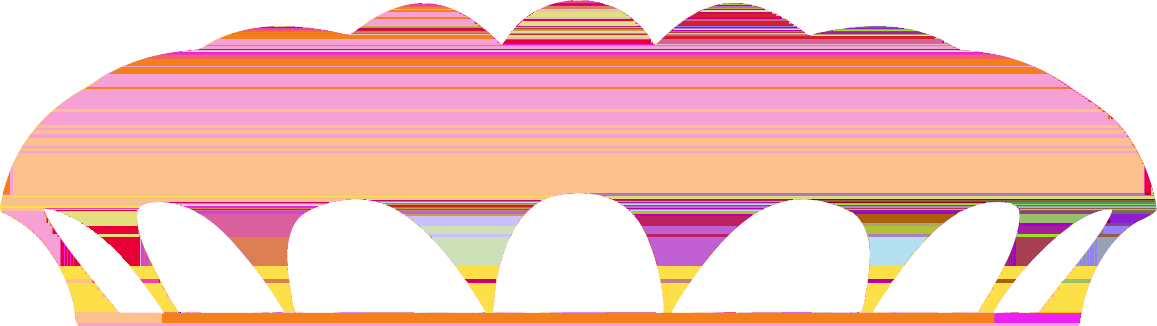
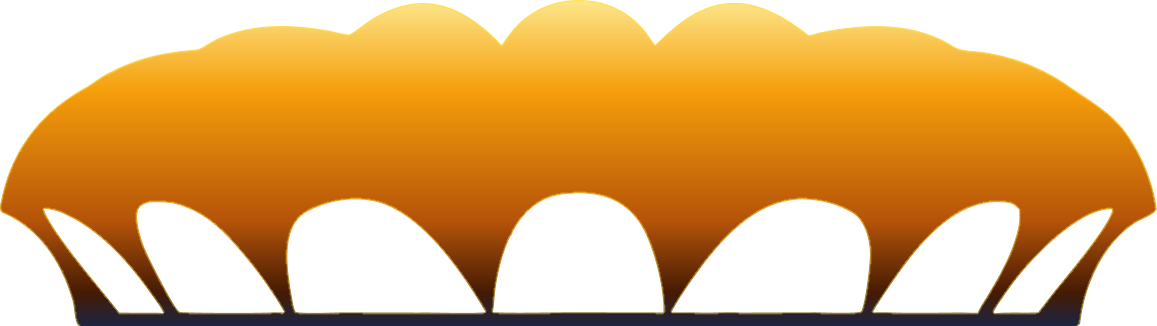
style: match pumpkin building colors with background templeGoldGrad palette

diff --git a/src/components/KrathongVisual.tsx b/src/components/KrathongVisual.tsx
@@ -582,21 +582,21 @@ export const KrathongVisual: React.FC<KrathongVisualProps> = ({
             <line x1="7" y1="58" x2="18" y2="39" stroke="#d97706" strokeWidth="2" strokeLinecap="round" />
             {/* ฐานแท่นรองรับอาคาร */}
             <rect x="3" y="34" width="30" height="4" rx="1.5" fill="#92400e" stroke="#fde047" strokeWidth="0.8" />
-            <rect x="6" y="31" width="24" height="3.5" rx="1" fill="#fef3c7" stroke="#d97706" strokeWidth="0.7" />
+            <rect x="6" y="31" width="24" height="3.5" rx="1" fill="#fde68a" stroke="#d97706" strokeWidth="0.7" />
             {/* หลังคาโดมกลีบฟักทองโค้งมน (ซ้าย-กลาง-ขวา) */}
             <path d="M 4 31 C 4 17 11 10 18 10 C 25 10 32 17 32 31 Z" fill="#f59e0b" stroke="#78350f" strokeWidth="1" />
             {/* กลีบฟักทองซ้อนมิติซ้าย-ขวา */}
             <path d="M 8.5 31 C 8.5 18 13 11 18 10 C 14.5 14 13 22 13 31 Z" fill="#fbbf24" opacity="0.85" />
             <path d="M 27.5 31 C 27.5 18 23 11 18 10 C 21.5 14 23 22 23 31 Z" fill="#d97706" opacity="0.75" />
             {/* กลีบกลางสว่าง + เส้นสันกลีบตึกฟักทอง */}
-            <path d="M 13.5 31 C 13.5 19 15.5 11.5 18 10 C 20.5 11.5 22.5 19 22.5 31 Z" fill="#fef3c7" stroke="#b45309" strokeWidth="0.7" />
+            <path d="M 13.5 31 C 13.5 19 15.5 11.5 18 10 C 20.5 11.5 22.5 19 22.5 31 Z" fill="#fde68a" stroke="#b45309" strokeWidth="0.7" />
             <line x1="18" y1="8" x2="18" y2="31" stroke="#b45309" strokeWidth="0.8" />
             {/* ยอดจั่วกลาง */}
             <path d="M 16.5 10 L 18 5.5 L 19.5 10 Z" fill="#fde047" stroke="#b45309" strokeWidth="0.6" />
-            {/* ช่องซุ้มโค้งสีขาวฐานตึก (ซุ้มโค้งเอกลักษณ์ ม.อ.) */}
-            <path d="M 8 31 L 8 27 Q 10 24.5 12 27 L 12 31 Z" fill="#ffffff" stroke="#b45309" strokeWidth="0.5" />
-            <path d="M 15.5 31 L 15.5 26.5 Q 18 23.5 20.5 26.5 L 20.5 31 Z" fill="#ffffff" stroke="#b45309" strokeWidth="0.5" />
-            <path d="M 24 31 L 24 27 Q 26 24.5 28 27 L 28 31 Z" fill="#ffffff" stroke="#b45309" strokeWidth="0.5" />
+            {/* ช่องซุ้มโค้งฐานตึกโทนเดียวกับสถาปัตยกรรมพื้นหลัง */}
+            <path d="M 8 31 L 8 27 Q 10 24.5 12 27 L 12 31 Z" fill="#0b132b" stroke="#fde047" strokeWidth="0.55" />
+            <path d="M 15.5 31 L 15.5 26.5 Q 18 23.5 20.5 26.5 L 20.5 31 Z" fill="#0b132b" stroke="#fde047" strokeWidth="0.55" />
+            <path d="M 24 31 L 24 27 Q 26 24.5 28 27 L 28 31 Z" fill="#0b132b" stroke="#fde047" strokeWidth="0.55" />
           </g>
         )}
 
@@ -741,7 +741,7 @@ export const KrathongVisual: React.FC<KrathongVisualProps> = ({
             <g>
               {/* ฐานแท่นรองรับโค้ง 2 ชั้น */}
               <rect x="52" y="108" width="96" height="8" rx="3" fill="#78350f" stroke="#fde047" strokeWidth="1.2" />
-              <rect x="60" y="102" width="80" height="7" rx="2" fill="#fef3c7" stroke="#d97706" strokeWidth="1.1" />
+              <rect x="60" y="102" width="80" height="7" rx="2" fill="#fde68a" stroke="#d97706" strokeWidth="1.1" />
               {/* โดมตึกฟักทองกลีบใหญ่ซ้าย-ขวา */}
               <path d="M 55 102 C 55 76 74 64 100 64 C 126 64 145 76 145 102 Z" fill="#d97706" stroke="#78350f" strokeWidth="1.4" />
               {/* กลีบฟักทอง 3 มิติซ้อนกัน 7 กลีบ */}
@@ -749,17 +749,17 @@ export const KrathongVisual: React.FC<KrathongVisualProps> = ({
               <path d="M 138 102 C 138 78 121 65 100 64 C 118 70 128 82 128 102 Z" fill="#b45309" />
               <path d="M 74 102 C 74 79 85 65 100 64 C 88 72 85 84 85 102 Z" fill="#fbbf24" />
               <path d="M 126 102 C 126 79 115 65 100 64 C 112 72 115 84 115 102 Z" fill="#f59e0b" />
-              {/* กลีบกลางสีครีมทองสว่าง */}
-              <path d="M 88 102 C 88 78 93 65 100 64 C 107 65 112 78 112 102 Z" fill="#fef3c7" stroke="#b45309" strokeWidth="1" />
+              {/* กลีบกลางสีทองสว่าง */}
+              <path d="M 88 102 C 88 78 93 65 100 64 C 107 65 112 78 112 102 Z" fill="#fde68a" stroke="#b45309" strokeWidth="1" />
               {/* เส้นสันกลีบและยอดจั่วกลาง */}
               <line x1="100" y1="60" x2="100" y2="102" stroke="#92400e" strokeWidth="1.1" />
               <path d="M 96 64 L 100 55 L 104 64 Z" fill="#fde047" stroke="#92400e" strokeWidth="0.9" />
-              {/* ซุ้มโค้งสีขาวฐานตึก 5 ช่อง */}
-              <path d="M 65 102 L 65 93 Q 68.5 88 72 93 L 72 102 Z" fill="#ffffff" stroke="#b45309" strokeWidth="0.8" />
-              <path d="M 79 102 L 79 92 Q 83 87 87 92 L 87 102 Z" fill="#ffffff" stroke="#b45309" strokeWidth="0.8" />
-              <path d="M 94.5 102 L 94.5 90 Q 100 84 105.5 90 L 105.5 102 Z" fill="#ffffff" stroke="#b45309" strokeWidth="0.9" />
-              <path d="M 113 102 L 113 92 Q 117 87 121 92 L 121 102 Z" fill="#ffffff" stroke="#b45309" strokeWidth="0.8" />
-              <path d="M 128 102 L 128 93 Q 131.5 88 135 93 L 135 102 Z" fill="#ffffff" stroke="#b45309" strokeWidth="0.8" />
+              {/* ซุ้มโค้งฐานตึก 5 ช่องโทนเดียวกับสถาปัตยกรรมพื้นหลัง */}
+              <path d="M 65 102 L 65 93 Q 68.5 88 72 93 L 72 102 Z" fill="#0b132b" stroke="#fde047" strokeWidth="0.85" />
+              <path d="M 79 102 L 79 92 Q 83 87 87 92 L 87 102 Z" fill="#0b132b" stroke="#fde047" strokeWidth="0.85" />
+              <path d="M 94.5 102 L 94.5 90 Q 100 84 105.5 90 L 105.5 102 Z" fill="#0b132b" stroke="#fde047" strokeWidth="0.95" />
+              <path d="M 113 102 L 113 92 Q 117 87 121 92 L 121 102 Z" fill="#0b132b" stroke="#fde047" strokeWidth="0.85" />
+              <path d="M 128 102 L 128 93 Q 131.5 88 135 93 L 135 102 Z" fill="#0b132b" stroke="#fde047" strokeWidth="0.85" />
             </g>
           )}
 

diff --git a/src/components/RiverCanvas.tsx b/src/components/RiverCanvas.tsx
@@ -871,7 +871,7 @@ export const RiverCanvas: React.FC<RiverCanvasProps> = ({
             // ตึกฟักทอง ม.อ. กลางกระทง
             sCtx.fillStyle = '#78350f';
             sCtx.fillRect(kx - 20, cy + 2, 40, 4);
-            sCtx.fillStyle = '#fef3c7';
+            sCtx.fillStyle = '#fde68a';
             sCtx.fillRect(kx - 17, cy, 34, 2.5);
             sCtx.fillStyle = '#d97706';
             sCtx.strokeStyle = '#78350f';
@@ -884,7 +884,7 @@ export const RiverCanvas: React.FC<RiverCanvasProps> = ({
             sCtx.fill();
             sCtx.stroke();
             // กลีบกลางสว่าง + ยอดจั่ว
-            sCtx.fillStyle = '#fef3c7';
+            sCtx.fillStyle = '#fde68a';
             sCtx.beginPath();
             sCtx.moveTo(kx - 5, cy);
             sCtx.quadraticCurveTo(kx, cy - 16.5, kx + 5, cy);
@@ -896,12 +896,15 @@ export const RiverCanvas: React.FC<RiverCanvasProps> = ({
             sCtx.moveTo(kx, cy - 19);
             sCtx.lineTo(kx, cy);
             sCtx.stroke();
-            // ซุ้มโค้งสีขาว 5 ช่อง
-            sCtx.fillStyle = '#ffffff';
+            // ซุ้มโค้งฐานตึก 5 ช่องโทนเดียวกับพื้นหลัง
+            sCtx.fillStyle = '#0b132b';
+            sCtx.strokeStyle = '#fde047';
+            sCtx.lineWidth = 0.6;
             for (const ax of [kx - 13, kx - 7.5, kx - 1.5, kx + 5, kx + 10.5]) {
               sCtx.beginPath();
               sCtx.roundRect(ax, cy - 5.5, 2.6, 5.2, [1.3, 1.3, 0, 0]);
               sCtx.fill();
+              sCtx.stroke();
             }
           } else if (k.flower_type === 'noppamas_crown') {
             // ชฎาทองนพมาศบนพาน
@@ -1121,8 +1124,8 @@ export const RiverCanvas: React.FC<RiverCanvasProps> = ({
           sCtx.closePath();
           sCtx.fill();
           sCtx.stroke();
-          // กลีบกลางสีครีมทอง + เส้นสันกลีบ + ยอดจั่ว
-          sCtx.fillStyle = '#fef3c7';
+          // กลีบกลางสีทองสว่าง + เส้นสันกลีบ + ยอดจั่ว
+          sCtx.fillStyle = '#fde68a';
           sCtx.beginPath();
           sCtx.moveTo(kx + 11, cy - 8);
           sCtx.quadraticCurveTo(kx + 14, cy - 22.5, kx + 17, cy - 8);
@@ -1134,12 +1137,15 @@ export const RiverCanvas: React.FC<RiverCanvasProps> = ({
           sCtx.moveTo(kx + 14, cy - 25.5);
           sCtx.lineTo(kx + 14, cy - 8);
           sCtx.stroke();
-          // ซุ้มโค้งสีขาวฐานตึก 3 ช่อง
-          sCtx.fillStyle = '#ffffff';
+          // ซุ้มโค้งฐานตึก 3 ช่องโทนเดียวกับพื้นหลัง
+          sCtx.fillStyle = '#0b132b';
+          sCtx.strokeStyle = '#fde047';
+          sCtx.lineWidth = 0.5;
           for (const ax of [kx + 8.5, kx + 12.9, kx + 17.3]) {
             sCtx.beginPath();
             sCtx.roundRect(ax, cy - 12.5, 2.2, 4.2, [1.1, 1.1, 0, 0]);
             sCtx.fill();
+            sCtx.stroke();
           }
         }
         if (hasAcc('heart_sign')) {

diff --git a/src/components/ThaiArchitectureSkyline.tsx b/src/components/ThaiArchitectureSkyline.tsx
@@ -321,25 +321,26 @@ export const ThaiArchitectureSkyline: React.FC = () => {
           </g>
         </g>
 
-        {/* ----------------- 3. ตึกฟักทอง คณะวิทยาศาสตร์ ม.อ. (ลายเส้นสีขาวบริสุทธิ์ Pure White ด้านหน้า) ----------------- */}
+        {/* ----------------- 3. ตึกฟักทอง คณะวิทยาศาสตร์ ม.อ. (โทนสีทองไล่เฉดเดียวกับสถาปัตยกรรมพื้นหลัง templeGoldGrad) ----------------- */}
         <g id="realPumpkinBuildingPSU">
           {/* Spotlight แสงนวลส่องหลังตัวตึกฟักทอง */}
           <ellipse cx="800" cy="245" rx="280" ry="68" fill="url(#spireAura)" opacity="0.12" />
 
-          {/* Silhouette บังฉากหลังเฉพาะช่วงตัวอาคารตึกฟักทอง เพื่อไม่ให้เส้นเจดีย์ด้านหลังทะลุเข้ามาซ้อนในลายเส้นตึก */}
+          {/* Silhouette บังฉากหลังเฉพาะช่วงตัวอาคารตึกฟักทอง เพื่อไม่ให้เส้นเจดีย์ด้านหลังทะลุเข้ามาซ้อนในตัวอาคาร */}
           <path
             d="M 512 302 C 512 225, 575 176, 650 162 C 710 150, 755 148, 800 148 C 845 148, 890 150, 950 162 C 1025 176, 1088 225, 1088 302 Z"
-            fill="#091024"
-            opacity="0.92"
+            fill="#0b132b"
+            opacity="0.9"
           />
 
           <image
-            href="/vector.png?v=white"
+            href="/vector.png?v=temple-gold"
             x="510"
             y="130"
             width="580"
             height="176"
             preserveAspectRatio="xMidYMax meet"
+            opacity="0.95"
           />
         </g>
 
